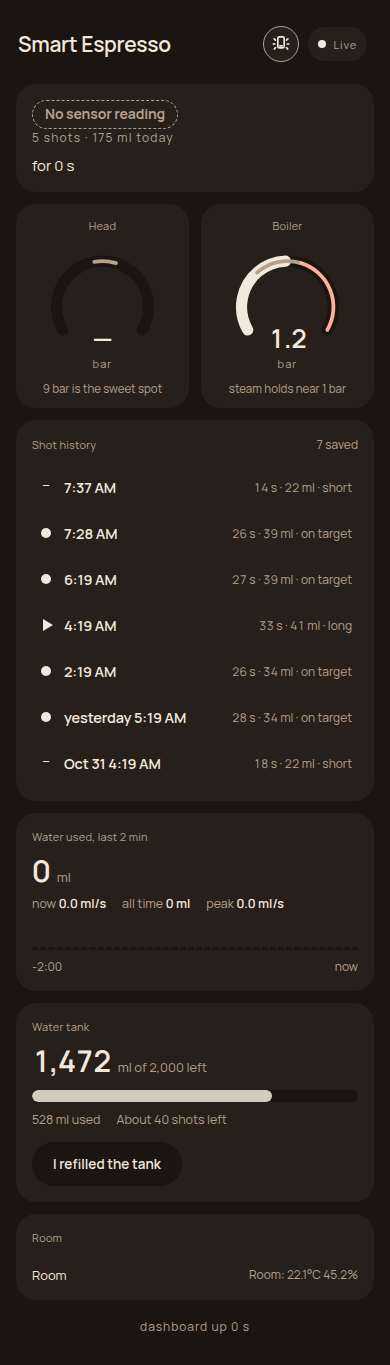
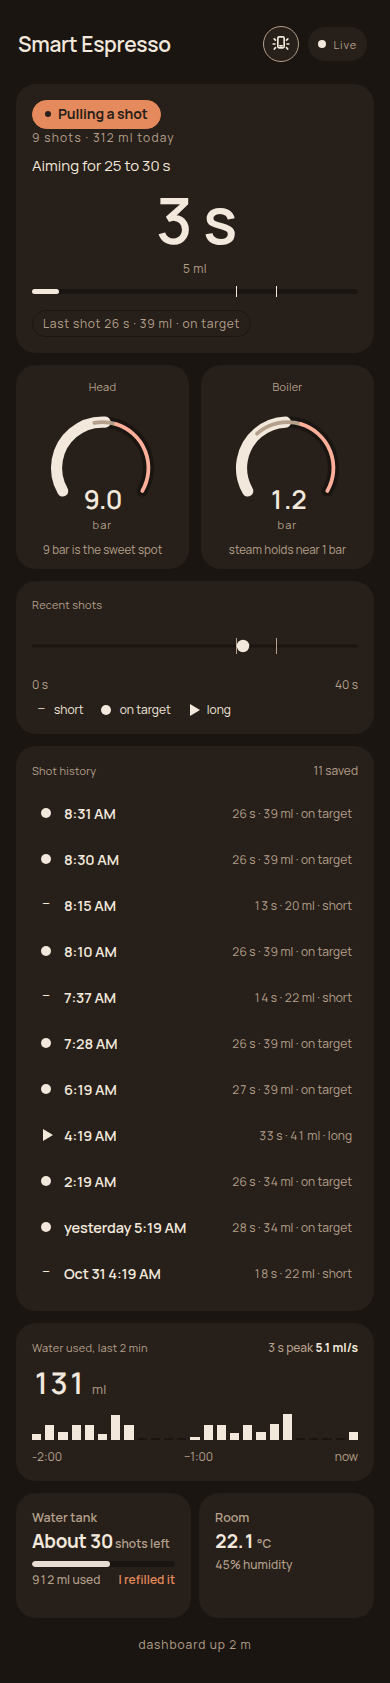
fix: pack the desktop columns and retake the grid shots
Put the shot history under the water card so a tall list cannot
stretch the hero's row. Columns stay fluid from 1000px up to 1440.

diff --git a/smart_espresso/web/static/index.html b/smart_espresso/web/static/index.html
@@ -292,6 +292,7 @@
     }
     #state { grid-column: 1; grid-row: 1; }
     #flow-card { grid-column: 1; grid-row: 2; }
+    #history-card { grid-column: 1; grid-row: 3; }
     #rings {
       grid-column: 2;
       grid-row: 1;

diff --git a/smart_espresso/test/test_dashboard_logic.py b/smart_espresso/test/test_dashboard_logic.py
@@ -668,5 +668,6 @@ class TestDesktopGrid:
         assert "min-width: 1024px" not in self.page
         assert "#state { grid-column: 1; grid-row: 1; }" in block
         assert "#flow-card { grid-column: 1; grid-row: 2; }" in block
+        assert "#history-card { grid-column: 1; grid-row: 3; }" in block
         assert "#tank-room { grid-column: 2; grid-row: 2; }" in block
         assert "#pulls-card { grid-column: 3" in block
